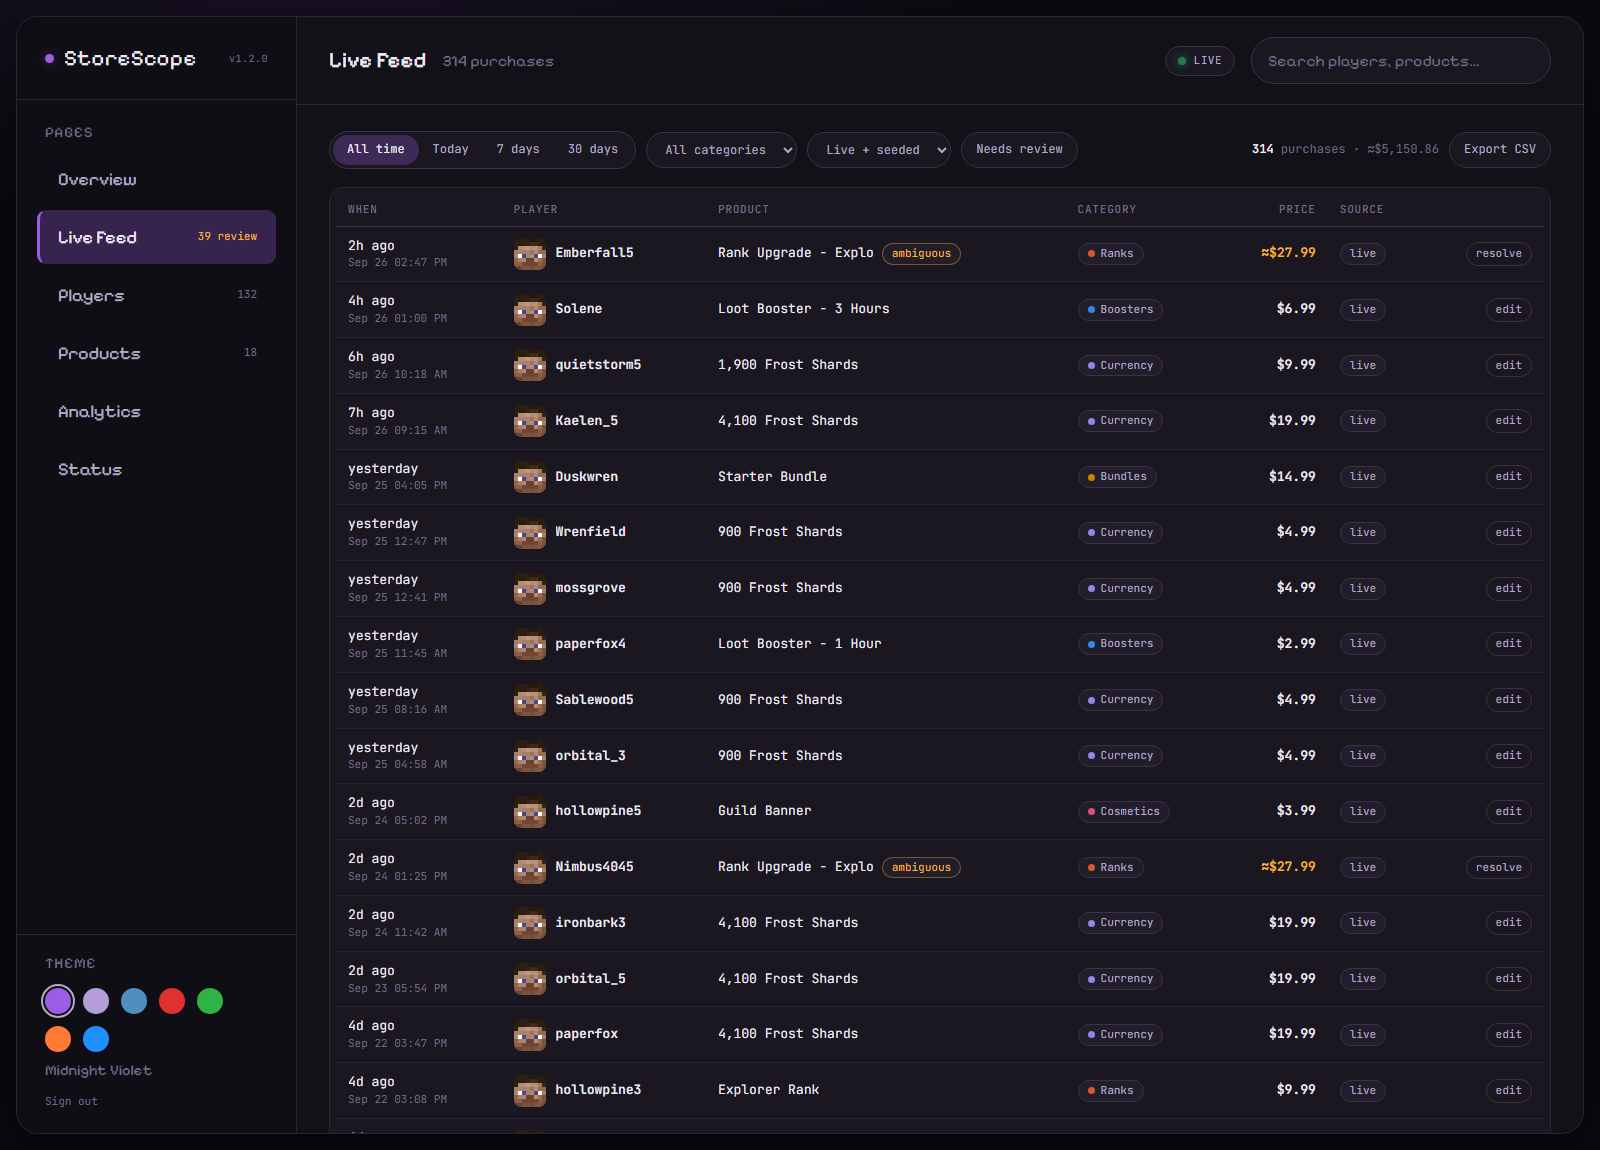
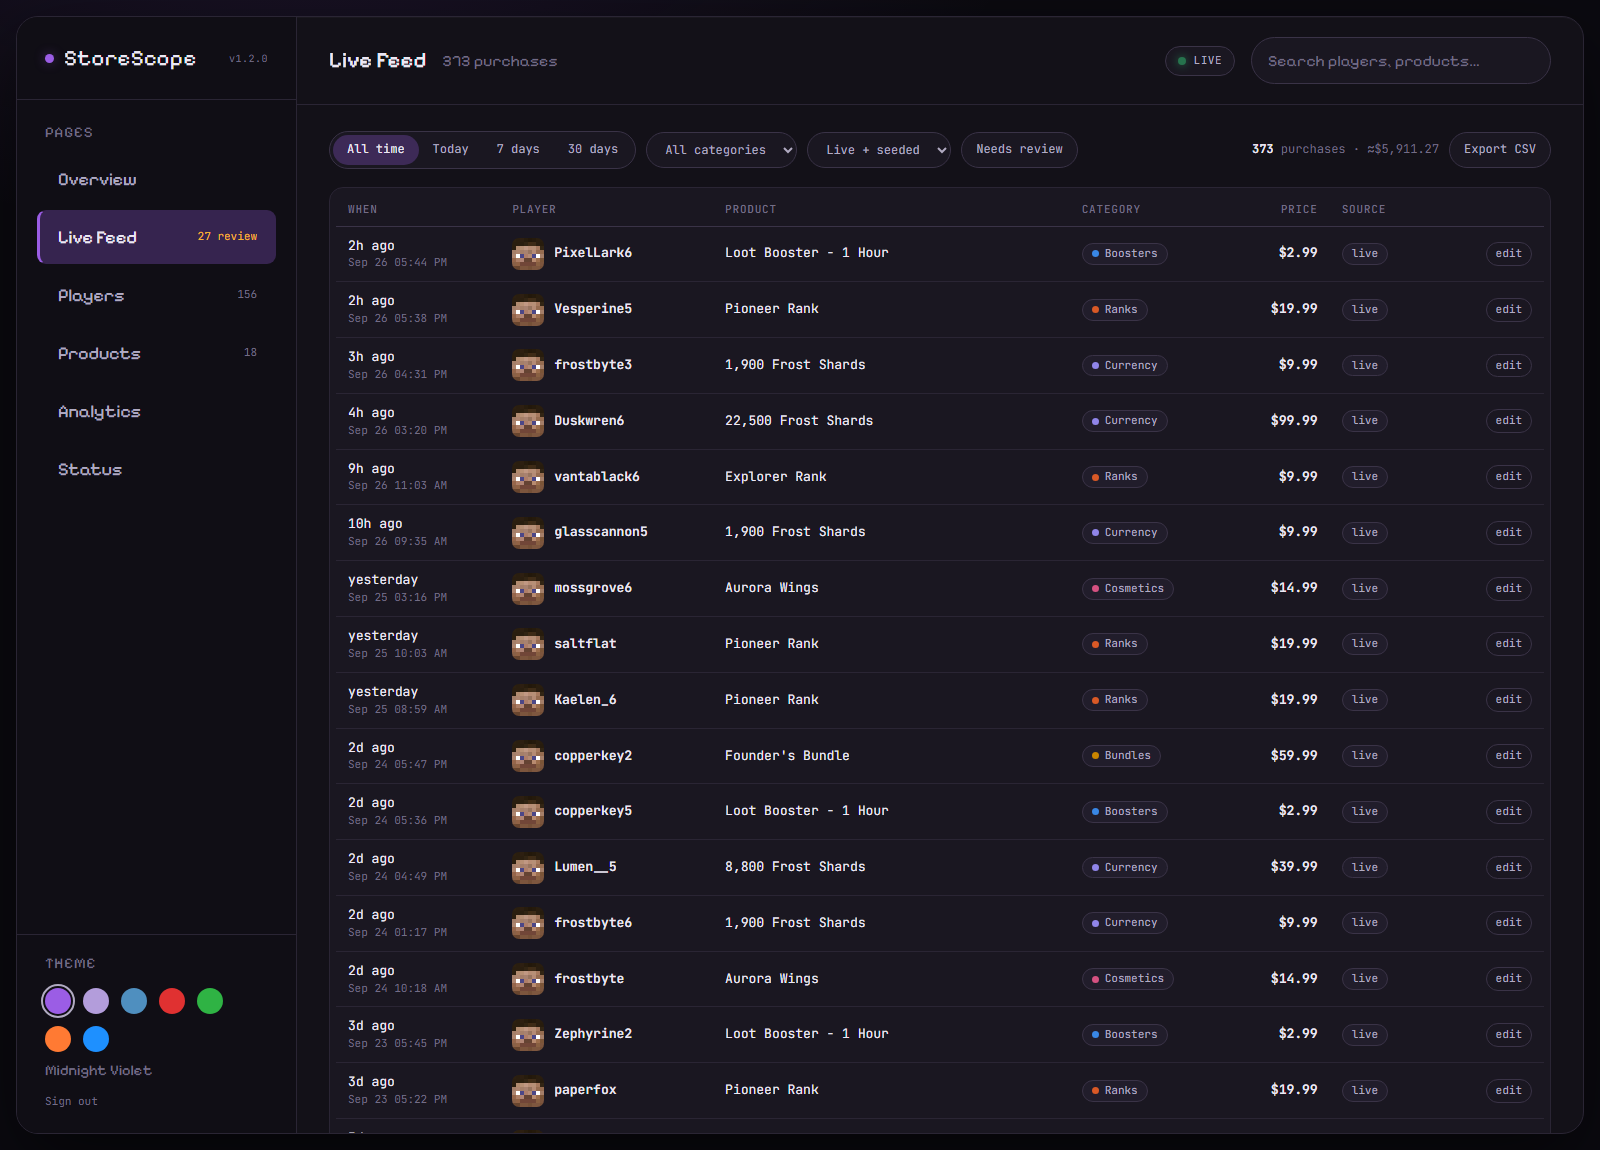
put the dashboard in the README
Six screenshots, all from the generated demo data, plus a section on running the
demo so the pictures are something a reader can reproduce rather than take on
trust.

The demo command passes ANONYMIZE=0. The buyers there are invented, so there is
nobody to protect and the handles would only hide the thing being demonstrated -
worth saying out loud in the README, next to the note that it is on by default
for a real store.

diff --git a/README.md b/README.md
@@ -12,6 +12,12 @@ python -m dragtrack          # tracker + dashboard on http://0.0.0.0:8787
 Store owners get their own numbers without waiting for Tebex reports; the widget is
 public, so it works against any store without credentials.
 
+![The overview page](docs/img/overview.png)
+
+<sub>Every figure in this README's screenshots is generated — see
+[Try it without a store](#try-it-without-a-store). Publishing a real shop's revenue to
+illustrate a side project is not mine to do.</sub>
+
 ### The three problems worth reading the code for
 
 **Cloudflare.** The storefront sits behind a managed challenge that blocks `requests`
@@ -80,8 +86,30 @@ Other modes:
 python -m dragtrack --once      # poll one time and exit (good for testing)
 python -m dragtrack --catalog   # refresh the product catalog and exit
 python -m dragtrack --no-web    # tracker only
+python -m dragtrack --no-poll   # serve an existing database, don't scrape
 python -m pytest tests -q       # run the tests
 ```
+
+## Try it without a store
+
+You do not need a storefront, or a month of waiting for the charts to fill in:
+
+```bash
+python -m dragtrack.demo                                   # writes demo/demo.db
+DB_PATH=demo/demo.db STORE_NAME=Frostpeak ANONYMIZE=0   python -m dragtrack --no-poll                            # http://localhost:8787
+```
+
+`ANONYMIZE=0` because the buyers here are invented, so there is nobody to protect and the
+handles would only hide the thing being demonstrated. Leave it on for a real store — it is
+on by default for exactly that reason.
+
+The seeder invents the store, the products, the buyers and the uuids. The *shape* is
+modelled on a real storefront, because a demo that looks nothing like production is not
+much of a demo — lumpy revenue with weekends and one sale weekend, a long tail where about
+half of buyers buy exactly once, a couple of SKUs that collide when the feed truncates
+them at 20 characters, and a poll history with a short 403 patch in it. The generator is
+seeded, but the window is anchored to today, so your figures will not match the
+screenshots above exactly.
 
 ## Privacy
 
@@ -148,6 +176,34 @@ proxy with automatic certificates. Or keep the port firewalled and reach it over
 
 The dashboard polls the API every 10 s; new purchases pop up as toasts. Theme dots at the
 bottom-left switch the accent colour (remembered per browser). `/` focuses search.
+
+<details>
+<summary><b>Screenshots of the other pages</b></summary>
+
+**Analytics** — cumulative revenue, weekly revenue by category, and a weekday × hour
+heatmap of when people actually buy.
+
+![Analytics](docs/img/analytics.png)
+
+**Live Feed** — every purchase, filterable, with the resolve/edit/delete workflow for
+rows the truncation left ambiguous.
+
+![Live feed](docs/img/feed.png)
+
+**Players** — per-buyer totals, favourite product and category mix.
+
+![Players](docs/img/players.png)
+
+**Products** — the catalog with sold counts, revenue share and price-change history.
+
+![Products](docs/img/products.png)
+
+**Status** — poll latency, success rate, Cloudflare challenge detection, the last widget
+snapshot and live logs. The gap in the latency chart is a 403 the scraper rotated past.
+
+![Status](docs/img/status.png)
+
+</details>
 
 ## API
 
